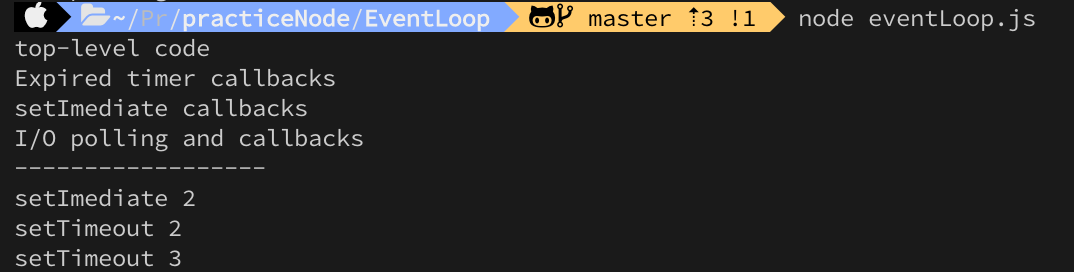
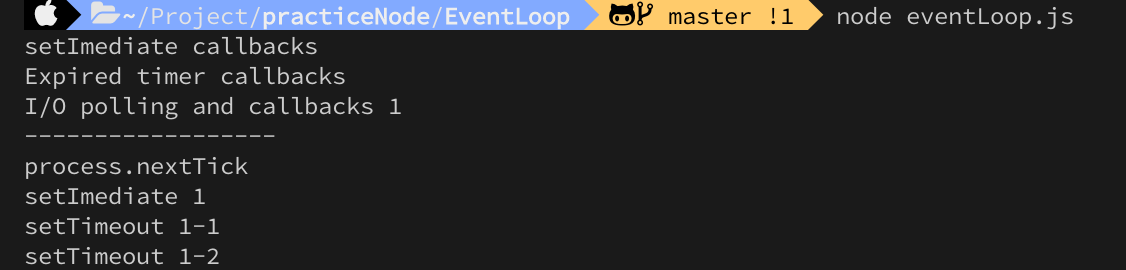
update README

diff --git a/README.md b/README.md
@@ -15,7 +15,7 @@ learn Nodejs runtime Not just by thoery, but by code
 
 ![eventloop order of phases](./image/eventloop-phases.png)
 
-### result1
+### normal case
 
 ```javascript
 const fs = require('fs');
@@ -34,7 +34,9 @@ console.log('top-level code');
 
 ![eventloop-result1](./image/eventloop-result1.png)
 
-### resuslt2
+at this point, the order of these three here doesn't have anything to do with the event loop, because they're actually not running inside the evnet loop just yet.
+
+### the order of eventloop phases
 
 ```javascript
 const fs = require('fs');
@@ -45,22 +47,18 @@ setImmediate(() => {
   console.log('setImediate callbacks');
 });
 fs.readFile('./test.txt', () => {
-  console.log('I/O polling and callbacks');
+  console.log('I/O polling and callbacks 1');
   console.log('------------------');
 
-  setTimeout(() => {
-    console.log('setTimeout 2');
-  }, 0);
-  setTimeout(() => {
-    console.log('setTimeout 3');
-  }, 3000);
-  setImmediate(() => {
-    console.log('setImediate 2');
-  });
+  setTimeout(() => console.log('setTimeout 1-1'), 0);
+  setTimeout(() => console.log('setTimeout 1-2'), 3000);
+  setImmediate(() => console.log('setImediate 1'));
+  process.nextTick(() => console.log('process.nextTick'));
 });
-console.log('top-level code');
 ```
 
 ![eventloop-result2](./image/eventloop-result2.png)
 
 the event loop actually waits for stuff to happen in the poll phase. So in that phase where I/O callbacks are handled. So when thiss queue of callbacks is empt, which is the case in our fictional expample here, so we have no I/O callbacks, all we have is these timers, then the event loop will wait in this phase until there iss an expired timer. But if we sscheduled a callback using setImmediate, then that callback will actually be excuted right away after the polling phase, and even before expired timers, if there is one. And in this case, the imer expires right away, so after zero seconds, but again, the event loop actually waits, so it pauses in the polling phase. And so that seImmediate callback is actually executed first, so that is the whole reason why we have this immediate here after we have the timers.
+
+And then, process.nextTick(). Remember nextTick is a part of the microtasks queue, which get excuted after each phase, so not just after one entire tick.
